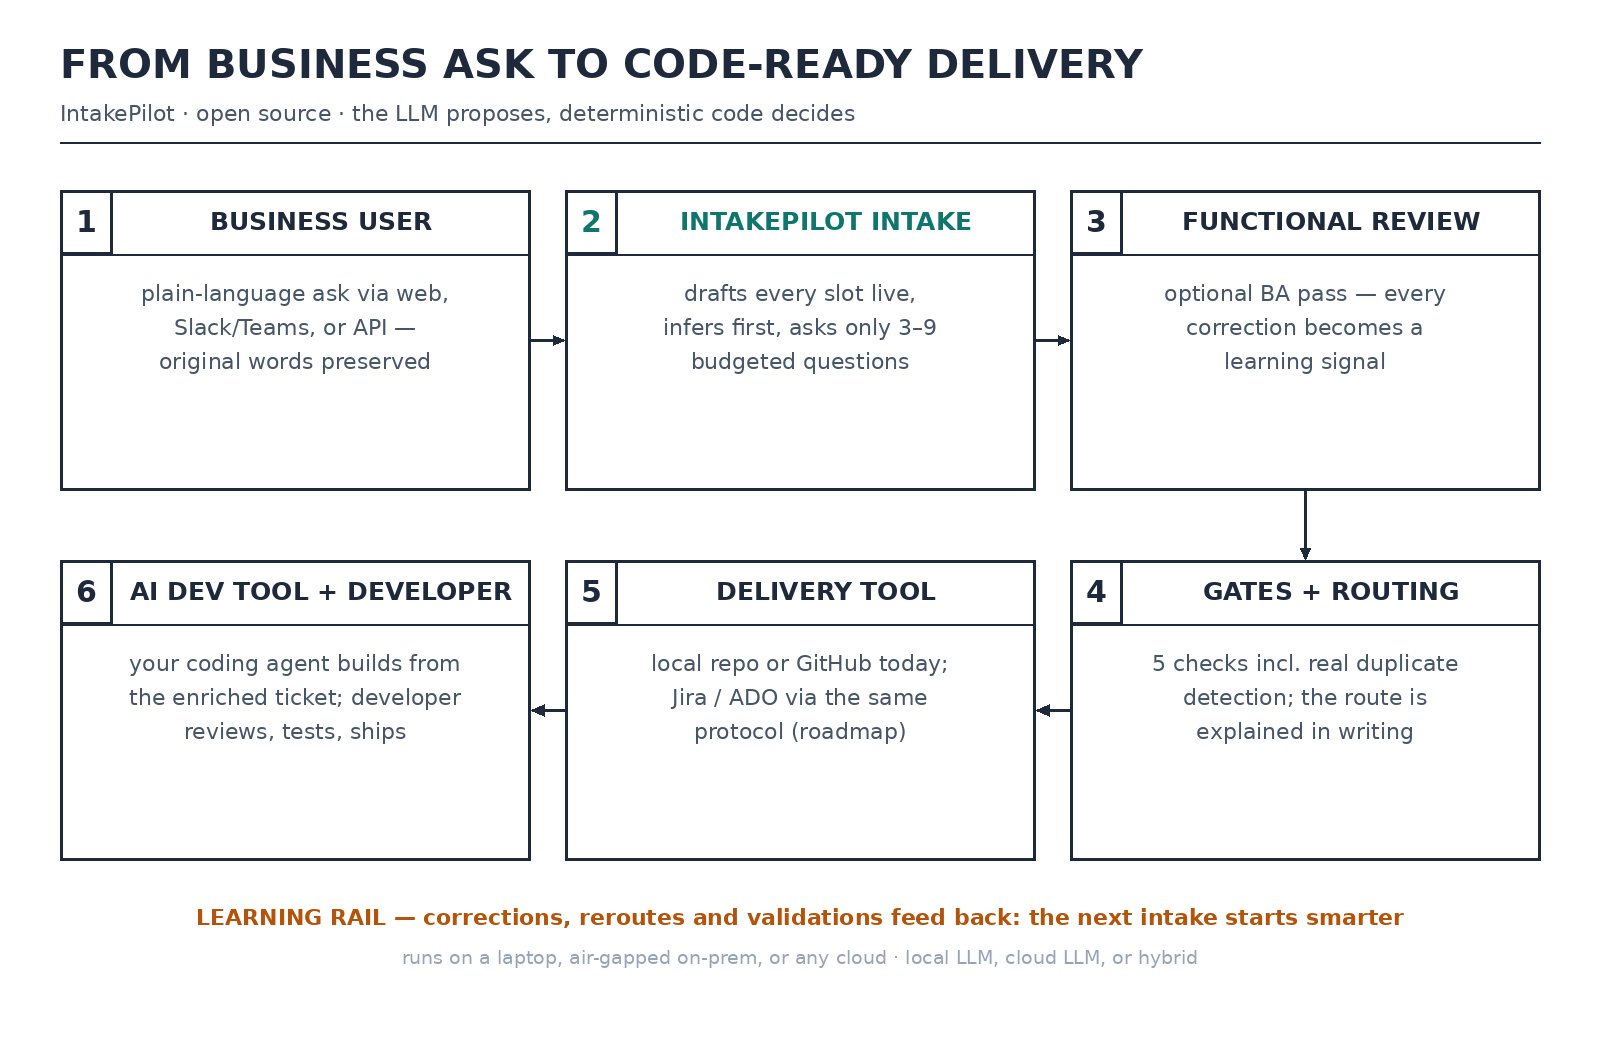
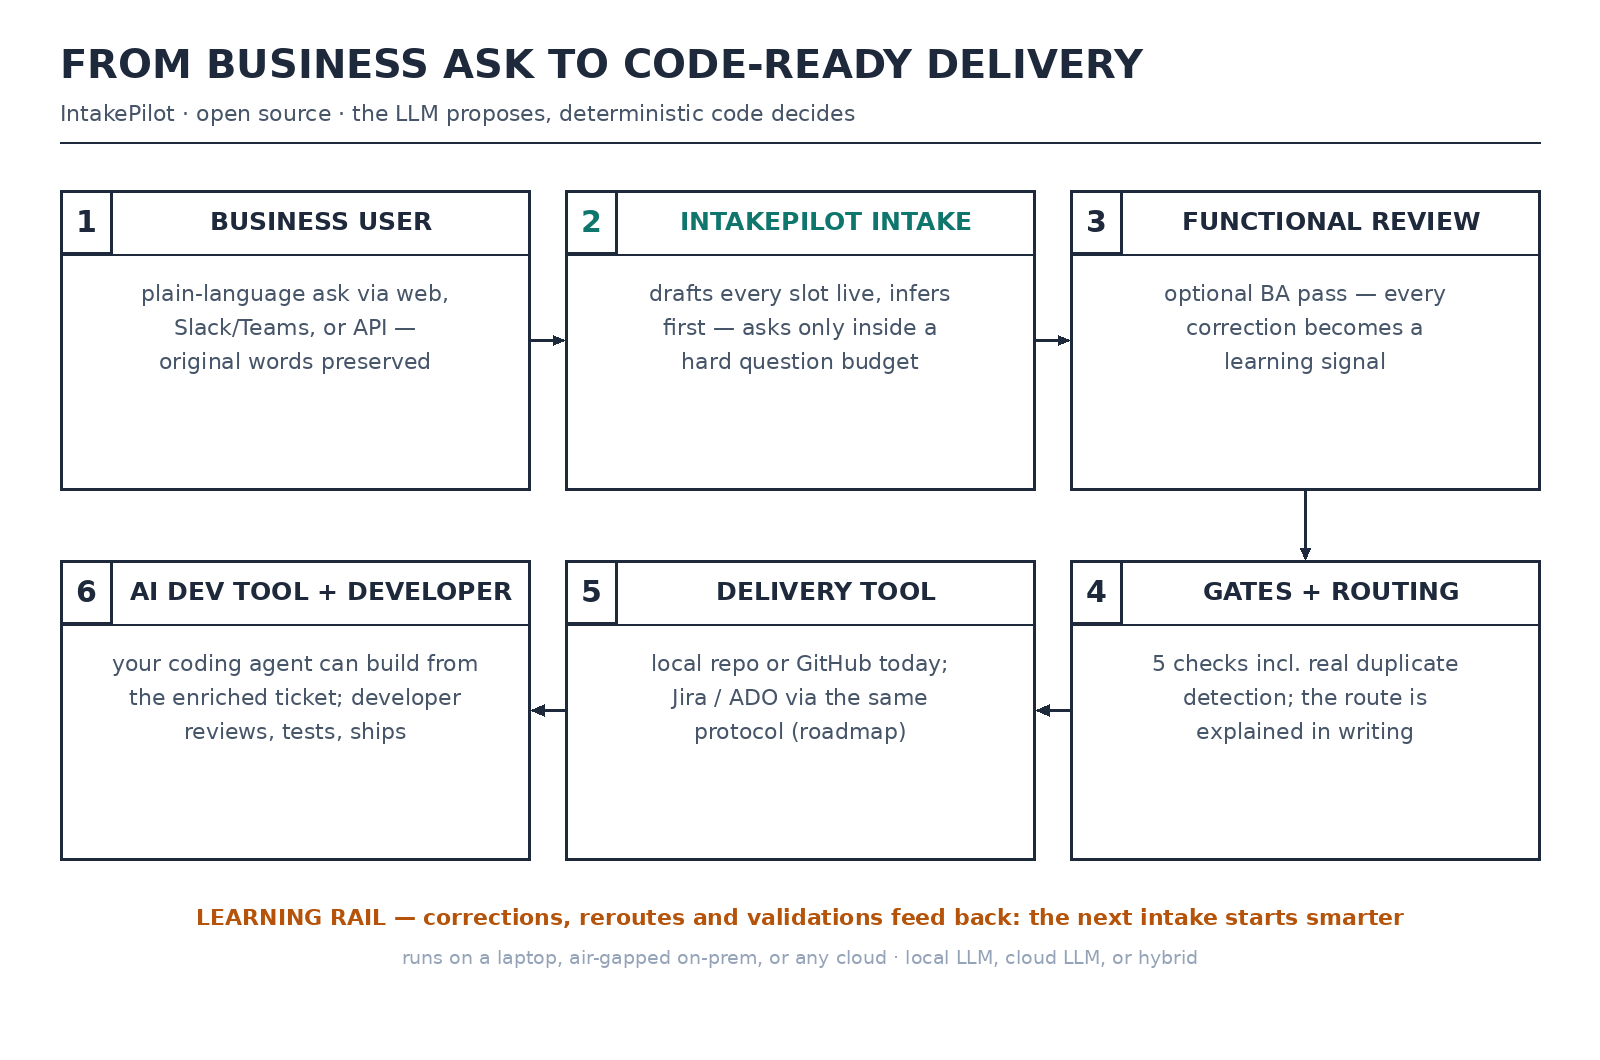
review pass 2: verified fixes only — Delivery tool label, 'can build' hedging, budget note reconciled (default 7, opt-in 3-9), correction-derived evals wording, Atlassian GA + GitHub Docs sources, SAP official maintenance phrasing, DSAG claims split, LinkedIn shortened under 3000 chars; rejected hal

Changed region(s): [[0.4062, 0.2491, 0.5938, 0.3736], [0.0625, 0.6226, 0.3125, 0.6538]]

diff --git a/docs/posts/medium-article.md b/docs/posts/medium-article.md
@@ -8,7 +8,7 @@ Most of my career has been in enterprise IT, a good part of it in and around SAP
 
 For a long time I filed this under "people problem". At some point I admitted it's a tooling problem. Delivery has Jira. Code has Git. Incidents have their pagers. The step where a business need becomes a requirement, the step everything downstream depends on, has a Word template and hope.
 
-And it's getting more urgent, not less. AI coding agents can now take a Jira ticket and open a pull request. Atlassian is shipping [agents in Jira](https://community.atlassian.com/forums/Jira-articles/Introducing-Agents-in-Jira/ba-p/3194583), and GitHub connects [Copilot's coding agent to Jira](https://devops.com/github-copilot-coding-agent-for-jira-connects-planning-to-pull-requests-without-leaving-your-workflow/). Everyone deploying these tools is learning the same lesson: [the quality of AI-generated code is capped by the ticket that triggered it](https://www.augmentcode.com/guides/jira-ticket-to-pull-request-automation). A two-sentence ticket now produces the wrong thing faster than ever. The bottleneck moved upstream, into intake, where nothing was standing.
+And it's getting more urgent, not less. AI coding agents can now take a Jira ticket and open a pull request. Atlassian has made [Agents in Jira generally available](https://www.atlassian.com/blog/rovo/ai-agents-in-jira), and GitHub's [Copilot coding agent works from inside Jira work items](https://docs.github.com/en/copilot/how-tos/use-copilot-agents/cloud-agent/integrate-cloud-agent-with-jira), opening draft pull requests from the ticket's title, description and comments. Everyone deploying these tools is learning the same lesson: [the quality of AI-generated code is capped by the ticket that triggered it](https://www.augmentcode.com/guides/jira-ticket-to-pull-request-automation). A two-sentence ticket now produces the wrong thing faster than ever. The bottleneck moved upstream, into intake, where nothing was standing.
 
 So on nights and weekends I built the tool I kept wishing existed, and open-sourced it. IntakePilot turns a plain-language business ask into a structured, quality-gated, correctly routed requirement, self-hosted, and whether a single token ever leaves your network is a configuration decision, not a product decision. Everything below comes from a real run of the shipped demo, which you can reproduce in about five minutes with `make dev`. No model download, no cloud account, no signup.
 
@@ -79,7 +79,7 @@ Security and economics push the same direction. Business processes are core IP, 
 
 ## The SAP situation
 
-If you live in the SAP world you know the clock. Mainstream maintenance for the ECC generation (Business Suite 7) [runs until the end of 2027](https://www.seidor.com/en-us/blog/understanding-sap-ecc-deadlines), with paid extended maintenance until 2030, and Gartner expects [close to 17,000 of roughly 35,000 ECC organizations to still be on it at the deadline](https://www.softwareseni.com/what-sap-ecc-end-of-support-actually-means-and-why-17000-companies-are-not-ready/). SAP's answer is RISE. In DSAG's surveys, [only 12% of members see high value in it, and 42% of 2026 investment still targets S/4HANA on-premises](https://www.ibsolution.com/academy/blog_en/dsag-survey-determines-companies-opinion-of-rise-with-sap). The user group has said openly that [SAP's cloud-first innovation discriminates against on-premise customers](https://www.constellationr.com/insights/news/dsag-saps-innovation-focus-cloud-discriminates-against-premise-users).
+If you live in the SAP world you know the clock. SAP provides mainstream maintenance for SAP Business Suite 7 core applications [until the end of 2027, followed by optional extended maintenance until the end of 2030](https://www.seidor.com/en-us/blog/understanding-sap-ecc-deadlines), and Gartner expects [close to 17,000 of roughly 35,000 ECC organizations to still be on it at the deadline](https://www.softwareseni.com/what-sap-ecc-end-of-support-actually-means-and-why-17000-companies-are-not-ready/). SAP's answer is RISE. In earlier DSAG research, [only 12% of members saw high value in RISE](https://www.ibsolution.com/academy/blog_en/dsag-survey-determines-companies-opinion-of-rise-with-sap). Separately, DSAG's 2026 investment reporting shows [42% of members still planning high or medium investment in S/4HANA on-premises](https://www.ibsolution.com/academy/blog_en/dsag-survey-determines-companies-opinion-of-rise-with-sap). The user group has said openly that [SAP's cloud-first innovation discriminates against on-premise customers](https://www.constellationr.com/insights/news/dsag-saps-innovation-focus-cloud-discriminates-against-premise-users).
 
 Signavio is good software. It's a [Leader in Gartner's process-intelligence Magic Quadrant](https://news.sap.com/2026/05/sap-signavio-gartner-magic-quadrant-process-intelligence-platforms/) and now has [Joule as a conversational front end](https://news.sap.com/2026/02/process-conversation-joule-sap-signavio-solutions-generally-available/). It's also cloud-only and metered, and it tells you how your processes run. Nothing in that stack helps the thousands of on-prem and hybrid customers govern how new requirements enter, and that backlog is exactly what the 2027 deadline multiplies. Every S/4HANA migration is thousands of requirement conversations: what do we keep, what do we drop, which Z-field still matters and why. That upstream gap is what IntakePilot aims at, and it's why the demo connector speaks SAP. Your requirement doesn't just say "orders". It knows you mean VBAK/VBAP, that ZZ_PRIORITY_CODE exists, who owns it, and that someone should decide its fate.
 
@@ -95,4 +95,4 @@ Code, drawings, and the five-minute demo: **[github.com/YOUR-USERNAME/intakepilo
 
 ---
 
-*Sources: [Atlassian — Agents in Jira](https://community.atlassian.com/forums/Jira-articles/Introducing-Agents-in-Jira/ba-p/3194583) · [DevOps.com — Copilot coding agent for Jira](https://devops.com/github-copilot-coding-agent-for-jira-connects-planning-to-pull-requests-without-leaving-your-workflow/) · [Augment Code — ticket-to-PR quality ceiling](https://www.augmentcode.com/guides/jira-ticket-to-pull-request-automation) · [ASUG/DSAG cloud perception research](https://www.asug.com/insights/asug-and-dsag-research-shows-customer-perceptions-of-rise-with-sap-cloud-and-sap-s-4hana) · [DSAG on RISE value & investment plans](https://www.ibsolution.com/academy/blog_en/dsag-survey-determines-companies-opinion-of-rise-with-sap) · [Constellation — DSAG on cloud-first innovation](https://www.constellationr.com/insights/news/dsag-saps-innovation-focus-cloud-discriminates-against-premise-users) · [SEIDOR — ECC deadlines](https://www.seidor.com/en-us/blog/understanding-sap-ecc-deadlines) · [SoftwareSeni — 17,000 not ready](https://www.softwareseni.com/what-sap-ecc-end-of-support-actually-means-and-why-17000-companies-are-not-ready/) · [SAP Licensing Experts — AI Units](https://saplicensingexperts.com/blog/sap-ai-units-explained-the-complete-enterprise-guide-for-2026) · [SAP News — Signavio in Gartner MQ](https://news.sap.com/2026/05/sap-signavio-gartner-magic-quadrant-process-intelligence-platforms/) · [SAP News — Joule with Signavio GA](https://news.sap.com/2026/02/process-conversation-joule-sap-signavio-solutions-generally-available/) · [TechStoriess — on-prem LLM share](https://www.techstoriess.com/open-source-on-premise-llms-deployment-security-cost-and-performance-compared/) · [Hugging Face — open models to run locally](https://huggingface.co/blog/daya-shankar/open-source-llm-models-to-run-locally)*
+*Sources: [Atlassian — Agents in Jira](https://www.atlassian.com/blog/rovo/ai-agents-in-jira) · [GitHub Docs — Copilot cloud agent with Jira](https://docs.github.com/en/copilot/how-tos/use-copilot-agents/cloud-agent/integrate-cloud-agent-with-jira) · [GitHub Changelog — Copilot for Jira GA](https://github.blog/changelog/2026-06-25-github-copilot-for-jira-is-now-generally-available/) · [Augment Code — ticket-to-PR quality ceiling](https://www.augmentcode.com/guides/jira-ticket-to-pull-request-automation) · [ASUG/DSAG cloud perception research](https://www.asug.com/insights/asug-and-dsag-research-shows-customer-perceptions-of-rise-with-sap-cloud-and-sap-s-4hana) · [DSAG on RISE value & investment plans](https://www.ibsolution.com/academy/blog_en/dsag-survey-determines-companies-opinion-of-rise-with-sap) · [Constellation — DSAG on cloud-first innovation](https://www.constellationr.com/insights/news/dsag-saps-innovation-focus-cloud-discriminates-against-premise-users) · [SEIDOR — ECC deadlines](https://www.seidor.com/en-us/blog/understanding-sap-ecc-deadlines) · [SoftwareSeni — 17,000 not ready](https://www.softwareseni.com/what-sap-ecc-end-of-support-actually-means-and-why-17000-companies-are-not-ready/) · [SAP Licensing Experts — AI Units](https://saplicensingexperts.com/blog/sap-ai-units-explained-the-complete-enterprise-guide-for-2026) · [SAP News — Signavio in Gartner MQ](https://news.sap.com/2026/05/sap-signavio-gartner-magic-quadrant-process-intelligence-platforms/) · [SAP News — Joule with Signavio GA](https://news.sap.com/2026/02/process-conversation-joule-sap-signavio-solutions-generally-available/) · [TechStoriess — on-prem LLM share](https://www.techstoriess.com/open-source-on-premise-llms-deployment-security-cost-and-performance-compared/) · [Hugging Face — open models to run locally](https://huggingface.co/blog/daya-shankar/open-source-llm-models-to-run-locally)*

diff --git a/docs/posts/linkedin-post.md b/docs/posts/linkedin-post.md
@@ -1,40 +1,47 @@
 # LinkedIn Post
 
-*(Attach `docs/assets/workflow-social.png` FIRST — it's the mobile-friendly version with large type. Add `docs/assets/architecture.png` second for the architecture view; the detailed engineering sheet `workflow.png` stays in the repo/Medium. Paste the text below as-is; LinkedIn keeps the line breaks. Add the GitHub + Medium links before posting.)*
+*(Attach `docs/assets/workflow-social.png` FIRST — the mobile-friendly version — and `docs/assets/architecture.png` second. The detailed engineering sheet `workflow.png` stays in the repo/Medium. Paste the text below as-is; it is ~2,500 characters, under LinkedIn's 3,000 limit. Add the GitHub + Medium links before posting.)*
 
 ---
 
-I've spent most of my career in enterprise IT, a lot of it around SAP. Looking back at the projects that failed or slipped, almost none died because of technology. They died at the requirement. The BRD came late, or said one thing and meant another, or three teams read it three different ways. Nobody shared the same picture, so the gap surfaced months later in UAT, where it costs the most.
+I've spent most of my career in enterprise IT, a lot of it around SAP. Looking back at the projects that slipped or failed, almost none died because the technology wasn't good enough. They died earlier: at the requirement.
 
-We gave delivery Jira and code Git. The step everything depends on, where a business need becomes a requirement, still runs on a Word template and follow-up calls.
+A BRD came late. A ticket said one thing and meant another. Three teams read the same ask three different ways. The gap surfaced in UAT, where it costs the most.
 
-At some point I stopped complaining and built something about it, on nights and weekends. It's called IntakePilot and it's open source. The numbers below are from its shipped demo, reproducible in about five minutes with "make dev". No cloud account, no model download.
+So on nights and weekends I built IntakePilot, and open-sourced it.
 
-A Finance Ops analyst types one sentence: "our monthly vendor report takes 3 days to compile by hand."
+It turns a plain-language business ask into a structured, quality-gated, correctly routed, code-ready requirement. Local-first: your model, your data, your network boundary.
 
-Before asking her anything, the system drafts the requirement live. Outcome extracted from her words at 0.85 confidence, stakeholders inferred from her department, affected systems pulled from the org glossary, data sensitivity assumed as "internal, override at confirm". Readiness: 34.
+Demo example: "our monthly vendor report takes 3 days to compile by hand."
 
-Then it asks 2 questions, with reasons, against a budget that lives in Python code rather than a prompt. There's a test where a malicious model tries to ask more and can't. Two taps: readiness 83, confirm unlocks. She fixes one system the glossary missed. Five quality gates run, and the router explains itself in writing: 'Matched 1 signal for "data-platform": "report".'
+Before asking anything, it drafts the requirement live:
+- outcome extracted from the ask
+- stakeholders inferred from context
+- affected systems pulled from the org glossary
+- every assumption declared, readiness scored
 
-The ticket keeps her original ask word for word, tags every claim with provenance and confidence, and declares every assumption. Her one-field fix becomes a training example for the next intake. The learning sits in ledgers, not fine-tuned weights, so you can swap models and keep every lesson.
+Then it asks only the missing business questions. The budget is enforced in Python, not in a prompt. There's a test where a malicious model tries to ask more; the orchestrator refuses.
 
-Business users never get technical questions. After confirmation the system discovers backend context on its own. In the SAP demo, "order info" resolves to VBAK/VBAP plus a custom Z-field (ZZ_PRIORITY_CODE) with its owning team.
+After confirmation, five gates run: schema, INVEST, ambiguity, duplicate detection against real history, routing sanity. The route is explained in writing. The ticket keeps the original ask word for word, with provenance and confidence on every claim.
 
-From there: an optional BA pass, functional review, then your PM tool. Local repo or GitHub issues today, Jira/ADO next via the same one-class protocol. AI coding agents are only as good as the ticket that feeds them. This makes that ticket.
+Business users are never asked about SAP tables or backend columns. Enrichment resolves that after confirmation. In the demo, "order info" maps to VBAK/VBAP and a custom Z-field with its owning team.
 
-The feedback loops are live, not planned. Duplicates get caught against real history and attached with one click. A relabeled ticket teaches the router it picked the wrong queue. Corrections replay as an eval suite that scores extraction accuracy on your own data. Intake also runs inside Slack or Teams through a single endpoint: answer by number, type "confirm", done. 100+ tests pin the invariants.
+The learning lives in ledgers, not model weights:
+- corrections become prompt exemplars
+- reroutes become routing precedent
+- duplicates get attached, not rebuilt
+- repeated edits become glossary proposals
+- correction replay shows whether accuracy is actually improving
 
-Two things I didn't compromise on.
+The design rule underneath: the LLM proposes, deterministic code decides.
 
-1. The LLM is a component, never in control. Deterministic code owns budgets, merges, gates and routing, and adversarial tests prove it.
+Local repo and GitHub issues work today. Jira/ADO and the builder-agent scaffold are roadmap, through the same target protocol. Runs on a laptop, air-gapped on-prem, or any cloud, with a local model, a cloud model, or a hybrid of both.
 
-2. Your model, your choice, including hybrid. Is a local LLM smart enough to understand the business? On day one, maybe not. So a stronger model (cloud or a bigger internal one) answers only the hard turns where the local model's output fails validation, and every correction makes the local model better on your business until those escalations mostly stop. Your processes are core IP. Nothing leaves your network unless you decide it should.
-
-The drawings attached are the whole system: the workflow every role shares, and the architecture that makes it run anywhere — laptop, air-gapped data center, any cloud. (Detailed engineering sheets are in the repo.)
+The attached drawings show the workflow and the architecture.
 
 Code + drawings: [GitHub link]
 Longer write-up: [Medium link]
 
-What would make this useful for your intake process? Asking because I want to build the next piece against real needs.
+What would make this useful for your intake process?
 
 #EnterpriseAI #SAP #S4HANA #RequirementsEngineering #LocalLLM #OpenSource
